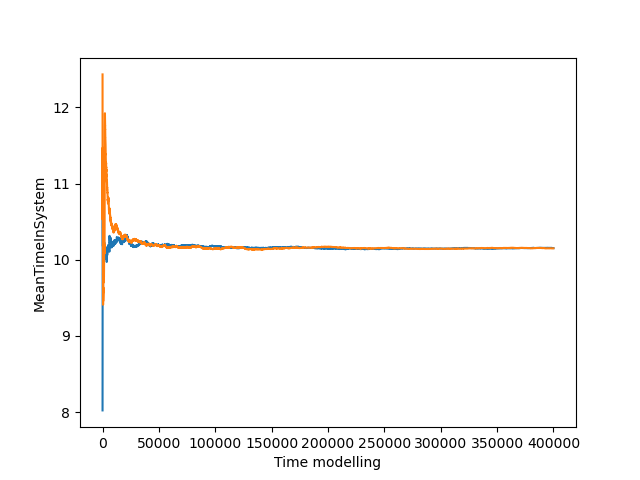
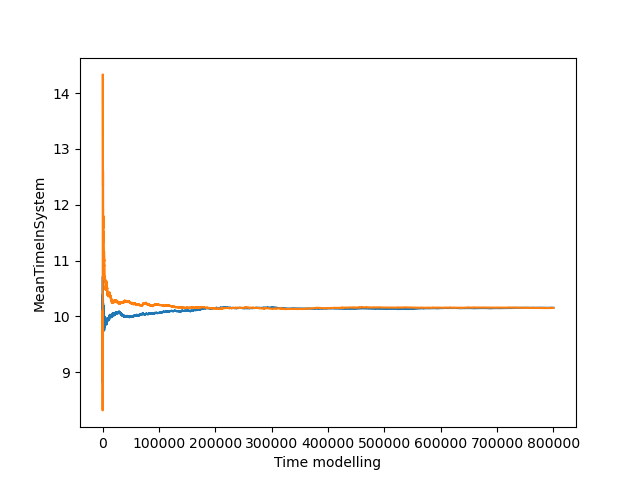
remov show plot

diff --git a/src/main/java/ua/stetsenkoinna/course_work/AnalyzeCourseWorkNet.java b/src/main/java/ua/stetsenkoinna/course_work/AnalyzeCourseWorkNet.java
@@ -1,8 +1,5 @@
 package ua.stetsenkoinna.course_work;
 
-import com.github.sh0nk.matplotlib4j.Plot;
-import com.github.sh0nk.matplotlib4j.PythonExecutionException;
-import com.github.sh0nk.matplotlib4j.builder.PlotBuilder;
 import ua.stetsenkoinna.PetriObj.ExceptionInvalidTimeDelay;
 
 import java.io.BufferedWriter;
@@ -10,11 +7,6 @@ import java.io.FileWriter;
 import java.io.IOException;
 import java.util.*;
 import java.util.function.Consumer;
-import java.util.function.Supplier;
-import java.util.stream.Collectors;
-import java.util.stream.DoubleStream;
-import java.util.stream.IntStream;
-import java.util.stream.Stream;
 
 public class AnalyzeCourseWorkNet {
 
@@ -112,197 +104,60 @@ public class AnalyzeCourseWorkNet {
         return propertyStats;
     }
 
-    private static PropertyMeanStdDev calcMeanStdDevThroughTime(
-            final List<Double> timePoints,
-            final List<Double> props
-    ) {
-        return calcMeanStdDevThroughTime(
-                () -> timePoints.stream().mapToDouble(Double::doubleValue),
-                () -> props.stream().mapToDouble(Double::doubleValue)
-        );
-    }
-
-    private static PropertyMeanStdDev calcMeanStdDevThroughTime(
-            final List<DiffTimePoint> timeProps
-    ) {
-        return calcMeanStdDevThroughTime(
-                () -> timeProps.stream().mapToDouble(v -> v.timePoint),
-                () -> timeProps.stream().mapToDouble(v -> v.diff)
-        );
-    }
-
-    private static PropertyMeanStdDev calcMeanStdDevThroughTime(
-            final Supplier<DoubleStream> timePoints,
-            final Supplier<DoubleStream> props
-    ) {
-        final PropertyMeanStdDev propertyMeanStdDev = new PropertyMeanStdDev();
-        propertyMeanStdDev.means = calculateMeansThroughTime(timePoints.get(), props.get());
-        propertyMeanStdDev.stdDev = calculateStdDevsThroughTime(timePoints.get(), props.get(), propertyMeanStdDev.means);
-        return propertyMeanStdDev;
-    }
-
-    private static class TransitivePeriod {
-        public static void main(String[] args) throws ExceptionInvalidTimeDelay, PythonExecutionException, IOException {
-            final int iterations = 2;
-            final List<List<Double>> timePointMat = new ArrayList<>();
-            final List<PropertyMeanStdDev> diskLoadMat = new ArrayList<>();
-            final List<PropertyMeanStdDev> ioChannelLoadMat = new ArrayList<>();
-            final List<PropertyMeanStdDev> processorsLoadMat = new ArrayList<>();
-            final List<PropertyMeanStdDev> useOfPageMat = new ArrayList<>();
-            final List<PropertyMeanStdDev> totalWaitAllocateMat = new ArrayList<>();
-            final List<PropertyMeanStdDev> meanTimeInSystem = new ArrayList<>();
-            final List<List<Double>> meanTimeInSystemTimePointsMat = new ArrayList<>();
-            final List<PropertyMeanStdDev> waitAllocate = new ArrayList<>();
-            final List<List<Double>> waitAllocateTimePointsMat = new ArrayList<>();
-
-            IntStream.range(0, iterations).forEach(iteration -> {
-                final PropertyStats propertyStats = collectStats(
-                        1000,
-                        0,
-                        131,
-                        2,
-                        4,
-                        20,
-                        60,
-                        6
-                );
-                diskLoadMat.add(calcMeanStdDevThroughTime(propertyStats.timePoint, propertyStats.diskLoad));
-                ioChannelLoadMat.add(calcMeanStdDevThroughTime(propertyStats.timePoint, propertyStats.ioChannelLoad));
-                processorsLoadMat.add(calcMeanStdDevThroughTime(propertyStats.timePoint, propertyStats.processorsLoad));
-                useOfPageMat.add(calcMeanStdDevThroughTime(propertyStats.timePoint, propertyStats.useOfPage));
-                totalWaitAllocateMat.add(calcMeanStdDevThroughTime(propertyStats.timePoint, propertyStats.totalWaitAllocate));
-                meanTimeInSystem.add(calcMeanStdDevThroughTime(propertyStats.timeInSystem));
-                waitAllocate.add(calcMeanStdDevThroughTime(propertyStats.timeWaitAllocate));
-                propertyStats.timePoint.remove(propertyStats.timePoint.size() - 1);
-                timePointMat.add(propertyStats.timePoint);
-                {
-                    final List<Double> timeInSystemTimePoints = propertyStats.timeInSystem.stream()
-                            .mapToDouble(v -> v.timePoint).boxed().collect(Collectors.toList());
-                    timeInSystemTimePoints.remove(timeInSystemTimePoints.size() - 1);
-                    meanTimeInSystemTimePointsMat.add(timeInSystemTimePoints);
-                }
-                {
-                    final List<Double> waitAllocateTimePoints = propertyStats.timeWaitAllocate.stream()
-                            .mapToDouble(v -> v.timePoint).boxed().collect(Collectors.toList());
-                    waitAllocateTimePoints.remove(waitAllocateTimePoints.size() - 1);
-                    waitAllocateTimePointsMat.add(waitAllocateTimePoints);
-                }
-            });
-            plotTransitiveMeanPeriod(meanTimeInSystemTimePointsMat, meanTimeInSystem, "MeanTimeInSystem");
-            plotTransitiveStdDevPeriod(meanTimeInSystemTimePointsMat, meanTimeInSystem, "StdDevTimeInSystem");
-
-            plotTransitiveMeanPeriod(waitAllocateTimePointsMat, waitAllocate, "MeanWaitAllocate");
-            plotTransitiveStdDevPeriod(waitAllocateTimePointsMat, waitAllocate, "StdDevWaitAllocate");
-
-            plotTransitiveMeanPeriod(timePointMat, diskLoadMat, "MeanDiskLoad");
-            plotTransitiveStdDevPeriod(timePointMat, diskLoadMat, "StdDevDiskLoad");
-
-            plotTransitiveMeanPeriod(timePointMat, ioChannelLoadMat, "MeanIoChannelLoad");
-            plotTransitiveStdDevPeriod(timePointMat, ioChannelLoadMat, "StdDevIoChannelLoad");
-
-            plotTransitiveMeanPeriod(timePointMat, processorsLoadMat, "MeanProcessorsLoad");
-            plotTransitiveStdDevPeriod(timePointMat, processorsLoadMat, "StdDevProcessorsLoad");
-
-            plotTransitiveMeanPeriod(timePointMat, useOfPageMat, "MeanUseOfPages");
-            plotTransitiveStdDevPeriod(timePointMat, useOfPageMat, "StdDevUseOfPages");
-
-            plotTransitiveMeanPeriod(timePointMat, totalWaitAllocateMat, "MeanTotalWaitAllocateTasks");
-            plotTransitiveStdDevPeriod(timePointMat, totalWaitAllocateMat, "StdDevTotalWaitAllocateTasks");
-        }
-        static void plotTransitiveMeanPeriod(
-                final List<List<Double>> timePointMat,
-                final List<PropertyMeanStdDev> valueMat,
-                final String yLabelName
-        ) throws PythonExecutionException, IOException {
-            plotTransitivePeriod(timePointMat, valueMat.stream().map(v -> v.means), yLabelName);
-        }
-
-        static void plotTransitiveStdDevPeriod(
-                final List<List<Double>> timePointMat,
-                final List<PropertyMeanStdDev> valueMat,
-                final String yLabelName
-        ) throws PythonExecutionException, IOException {
-            plotTransitivePeriod(timePointMat, valueMat.stream().map(v -> v.stdDev), yLabelName);
-        }
-
-        static void plotTransitivePeriod(
-                final List<List<Double>> timePointMat,
-                final Stream<List<Double>> valueMat,
-                final String yLabelName
-        ) throws PythonExecutionException, IOException {
-            final Plot plt = Plot.create();
-            final PlotBuilder plotBuilder = plt.plot();
-            final Iterator<List<Double>> timePointIt = timePointMat.iterator();
-            final Iterator<List<Double>> valueIt = valueMat.iterator();
-            while(timePointIt.hasNext()) {
-                final List<Double> timePointRow = timePointIt.next();
-                final List<Double> valueRow = valueIt.next();
-                plotBuilder.add(timePointRow, valueRow);
-            }
-            plt.xlabel("Time modelling");
-            plt.ylabel(yLabelName);
-            plt.savefig(yLabelName);
-            plt.show();
-        }
-    }
-
     static class DetermineDistribution {
-        public static void main(String[] args) throws ExceptionInvalidTimeDelay, PythonExecutionException, IOException {
-
-            final PropertyStats propertyStats = collectStats(
-                    500000,
-                    0,
-                    131,
-                    2,
-                    4,
-                    20,
-                    60,
-                    7
-            );
-
-            try (BufferedWriter writer = new BufferedWriter(new FileWriter("commonProps.csv"))) {
-                writer.write("timePoint"
-                        + "," + "diskLoad"
-                        + "," + "ioChannelLoad"
-                        + "," + "processorsLoad"
-                        + "," + "totalWaitAllocate"
-                        + "," + "useOfPage"
-                );
-                writer.newLine();
-                for(int i = 0; i < propertyStats.timePoint.size(); i++) {
-                    writer.write(propertyStats.timePoint.get(i)
-                            + "," + propertyStats.diskLoad.get(i)
-                            + "," + propertyStats.ioChannelLoad.get(i)
-                            + "," + propertyStats.processorsLoad.get(i)
-                            + "," + propertyStats.totalWaitAllocate.get(i)
-                            + "," + propertyStats.useOfPage.get(i)
+        public static void main(String[] args) throws IOException {
+            try (
+                    BufferedWriter writerCommonProps = new BufferedWriter(new FileWriter("commonProps.csv"));
+                    BufferedWriter writerTimeInSystem = new BufferedWriter(new FileWriter("timeInSystem.csv"));
+                    BufferedWriter writerTimeWaitAllocate = new BufferedWriter(new FileWriter("timeWaitAllocate.csv"))
+            ) {
+                for(int runNumber = 0; runNumber < 8; runNumber++) {
+                    final PropertyStats propertyStats = collectStats(
+                            800000,
+                            0,
+                            131,
+                            2,
+                            4,
+                            1,
+                            60,
+                            7
                     );
-                    writer.newLine();
-                }
-            } catch (IOException e) {
-                System.err.println("Error writing to file: " + e.getMessage());
-            }
+                    writerCommonProps.write("runNumber"
+                            + "," + "timePoint"
+                            + "," + "diskLoad"
+                            + "," + "ioChannelLoad"
+                            + "," + "processorsLoad"
+                            + "," + "totalWaitAllocate"
+                            + "," + "useOfPage"
+                    );
+                    writerCommonProps.newLine();
+                    for(int i = 0; i < propertyStats.timePoint.size(); i++) {
+                        writerCommonProps.write(
+                                runNumber
+                                + "," + propertyStats.timePoint.get(i)
+                                + "," + propertyStats.diskLoad.get(i)
+                                + "," + propertyStats.ioChannelLoad.get(i)
+                                + "," + propertyStats.processorsLoad.get(i)
+                                + "," + propertyStats.totalWaitAllocate.get(i)
+                                + "," + propertyStats.useOfPage.get(i)
+                        );
+                        writerCommonProps.newLine();
+                    }
 
-            try (BufferedWriter writer = new BufferedWriter(new FileWriter("timeInSystem.csv"))) {
-                writer.write("timePoint,value");
-                writer.newLine();
-                for(final DiffTimePoint diffTimePoint : propertyStats.timeInSystem) {
-                    writer.write(diffTimePoint.timePoint + "," + diffTimePoint.diff);
-                    writer.newLine();
-                }
-            } catch (IOException e) {
-                System.err.println("Error writing to file: " + e.getMessage());
-            }
+                    writerTimeInSystem.write("runNumber,timePoint,timeInSystem");
+                    writerTimeInSystem.newLine();
+                    for(final DiffTimePoint diffTimePoint : propertyStats.timeInSystem) {
+                        writerTimeInSystem.write(runNumber + "," + diffTimePoint.timePoint + "," + diffTimePoint.diff);
+                        writerTimeInSystem.newLine();
+                    }
 
-            try (BufferedWriter writer = new BufferedWriter(new FileWriter("waitAllocate.csv"))) {
-                writer.write("timePoint,value");
-                writer.newLine();
-                for(final DiffTimePoint diffTimePoint : propertyStats.timeWaitAllocate) {
-                    writer.write(diffTimePoint.timePoint + "," + diffTimePoint.diff);
-                    writer.newLine();
+                    writerTimeWaitAllocate.write("runNumber,timePoint,timeWaitAllocate");
+                    writerTimeWaitAllocate.newLine();
+                    for(final DiffTimePoint diffTimePoint : propertyStats.timeWaitAllocate) {
+                        writerTimeWaitAllocate.write(runNumber + "," + diffTimePoint.timePoint + "," + diffTimePoint.diff);
+                        writerTimeWaitAllocate.newLine();
+                    }
                 }
-            } catch (IOException e) {
-                System.err.println("Error writing to file: " + e.getMessage());
             }
         }
     }
@@ -322,58 +177,5 @@ public class AnalyzeCourseWorkNet {
                 diffTimePoints.add(diffTimePoint);
             }
         }
-    }
-
-    static List<Double> calculateMeansThroughTime(
-            final DoubleStream timePoints,
-            final DoubleStream values
-    ) {
-        final Iterator<Double> timePointIt = timePoints.iterator();
-        final Iterator<Double> valuesIt = values.iterator();
-
-        double prevTimePoint = timePointIt.next();
-        double delaySum = 0.0;
-        double valueSum = 0;
-
-        final List<Double> valuesThroughTime = new ArrayList<>();
-
-        while(timePointIt.hasNext()) {
-            final double timePoint = timePointIt.next();
-            final double value = valuesIt.next();
-            final double delay = timePoint - prevTimePoint;
-            prevTimePoint = timePoint;
-            delaySum += delay;
-            valueSum += value * delay;
-            valuesThroughTime.add(valueSum / delaySum);
-        }
-
-        return valuesThroughTime;
-    }
-
-    static List<Double> calculateStdDevsThroughTime(
-            final DoubleStream timePoints,
-            final DoubleStream values,
-            final List<Double> means
-    ) {
-        final Iterator<Double> timePointIt = timePoints.iterator();
-        final Iterator<Double> valuesIt = values.iterator();
-        final Iterator<Double> meansIt = means.iterator();
-        double prevTimePoint = timePointIt.next();
-        double delaySum = 0.0;
-        double valueSum = 0;
-
-        final List<Double> valuesThroughTime = new ArrayList<>();
-
-        while(timePointIt.hasNext()) {
-            final double timePoint = timePointIt.next();
-            final double value = valuesIt.next();
-            final double delay = timePoint - prevTimePoint;
-            delaySum += delay;
-            prevTimePoint = timePoint;
-            valueSum += Math.pow(value - meansIt.next(), 2) * delay;
-            valuesThroughTime.add(Math.sqrt(valueSum / delaySum));
-        }
-
-        return valuesThroughTime;
     }
 }

diff --git a/src/main/java/ua/stetsenkoinna/course_work/VerifyCourseWorkNet.java b/src/main/java/ua/stetsenkoinna/course_work/VerifyCourseWorkNet.java
@@ -1,6 +1,5 @@
 package ua.stetsenkoinna.course_work;
 
-import com.github.sh0nk.matplotlib4j.PythonExecutionException;
 import ua.stetsenkoinna.PetriObj.ExceptionInvalidTimeDelay;
 
 import java.io.FileWriter;
